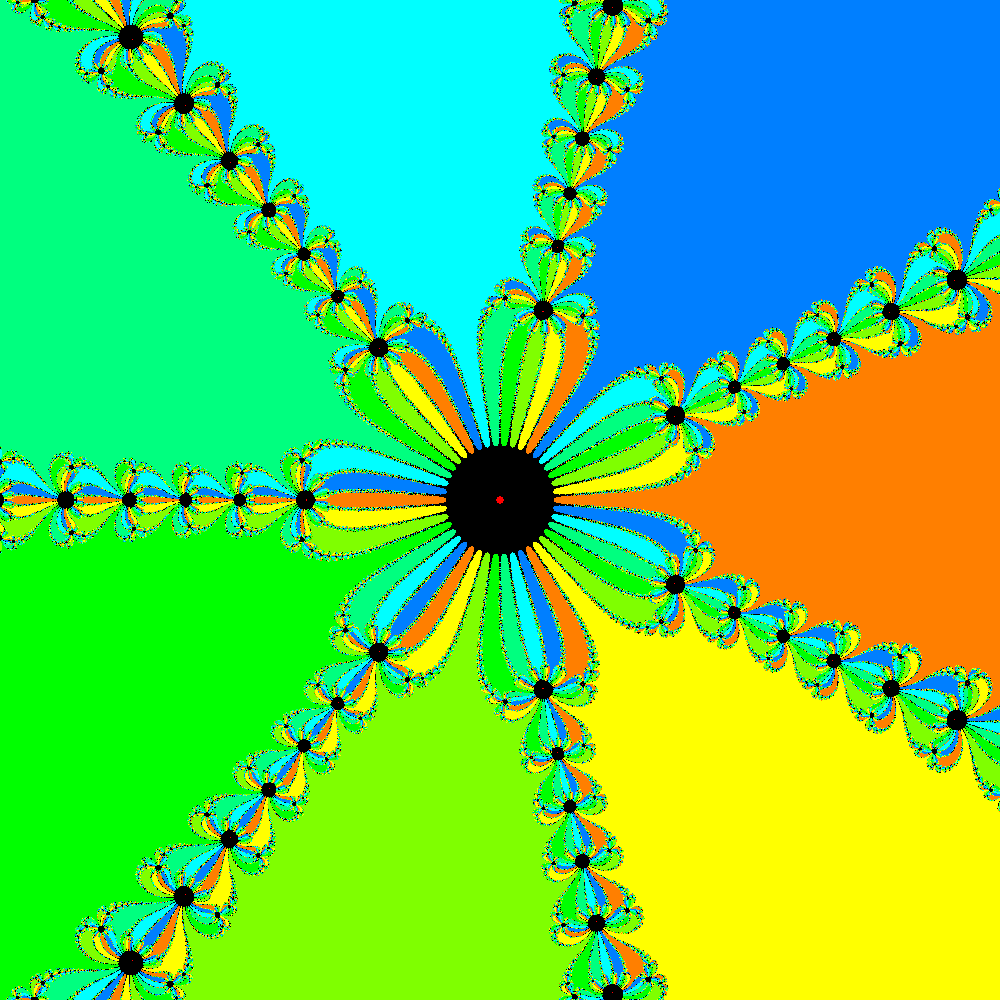
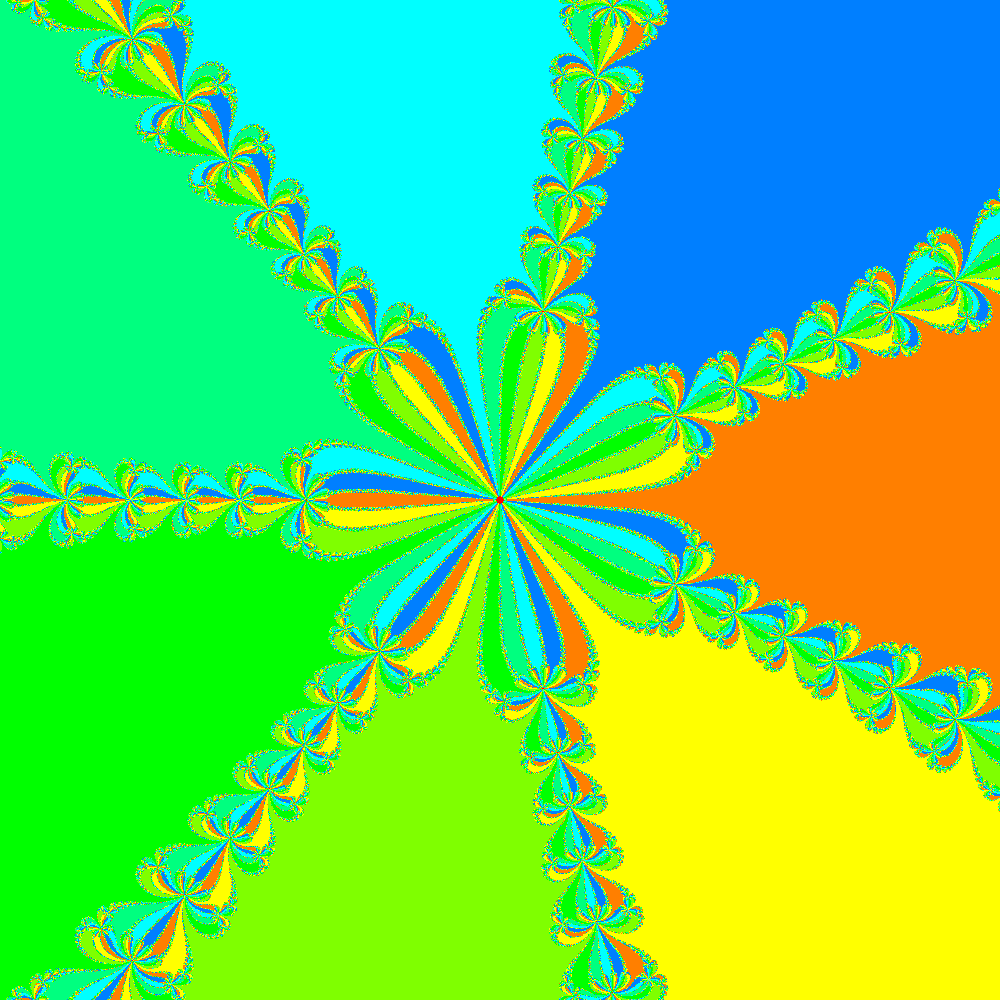
new done

diff --git a/ass3/newton.c b/ass3/newton.c
@@ -24,8 +24,6 @@ typedef struct {
 } int_padded;
 
 typedef struct {
-  const float **re_matrix;
-  const float **im_matrix;
   int degree;
   double*arr_r;
   double* arr_i;
@@ -88,8 +86,6 @@ main_thrd(
     )
 {
   const thrd_info_t *thrd_info = (thrd_info_t*) args;
-  //const float **re_matrix = thrd_info->re_matrix;
-  //const float **im_matrix=thrd_info->im_matrix;
   const int degree =thrd_info->degree;
   double* arr_r=thrd_info->arr_r;
   double*arr_i=thrd_info->arr_i;
@@ -195,20 +191,15 @@ main_thrd_check(
         mtx_unlock(mtx);
         break;
       }
+    }
 
     
-    }
-      
-
     // We do not initialize ix in this loop, but in the outer one.
     for ( ; ix < ibnd; ++ix ) {
-     
       WritePPM2(sz, root[ix],rgb_attr, fpc,iterations[ix],rgb_iter, fpi,Colours);
       free(root[ix]);
       free(iterations[ix]);
-    }
-
-     
+    } 
   }
 
   free(rgb_attr);
@@ -222,9 +213,7 @@ main_thrd_check(
 int
 main(int argc, char* argv[])
 {
-  
   //Parse command line args
-
   int nthrds;
   int sz;
   
@@ -240,49 +229,17 @@ main(int argc, char* argv[])
   }
 
  
-
   const int degree=atoi(argv[3]);
 
   //printf("%i,%i, %i\n",nthrds,sz, degree); 
   //Precalculcate roots
   double arr_r[degree];
   double arr_i[degree];
-
   PreCalcRoots(degree,arr_r,arr_i);
-
-  
-
-  //Initialize coordinate matrices
-  //  float **re_matrix=(float**) malloc(sz*sizeof(float*));
-  //float **im_matrix=(float**) malloc(sz*sizeof(float*));
-  // float *re_entries=(float*) malloc(sz*sz*sizeof(float));
-  // float *im_entries=(float*) malloc(sz*sz*sizeof(float));
-
-  
-  //Calculating gap between coordinates
-  // float gap=4./(sz-1);
-
-
-  /*
-  //Filling in coordinates
-  for ( int ix = 0, jx = 0; ix < sz; ++ix, jx += sz ){
-    re_matrix[ix]=re_entries+jx;
-    im_matrix[ix]=im_entries+jx;
-
-  }
-  for(int ix=0;ix<sz;++ix){
-    for(int jx=0;jx<sz;++jx){
-      re_matrix[ix][jx]=-2+ix*gap;
-      im_matrix[jx][ix]=2-ix*gap;
-    }
-  }
-  */
   
   //Initialize result matrices
   int **root=(int**) malloc(sz*sizeof(int*));
   int **iterations=(int**) malloc(sz*sizeof(int*));
-
-
 
   //Initializing threads
   thrd_t thrds[nthrds];
@@ -300,8 +257,6 @@ main(int argc, char* argv[])
   int_padded status[nthrds];
 
   for ( int tx = 0; tx < nthrds; ++tx ) {
-    //  thrds_info[tx].re_matrix = (const float**) re_matrix;
-    // thrds_info[tx].im_matrix= (const float**) im_matrix;
     thrds_info[tx].arr_r=arr_r;
     thrds_info[tx].arr_i=arr_i;
     thrds_info[tx].root=root;
@@ -332,7 +287,6 @@ main(int argc, char* argv[])
     thrd_info_check.nthrds = nthrds;
     thrd_info_check.mtx = &mtx;
 
-
     thrd_info_check.cnd = &cnd;
     // It is important that we have initialize status in the previous for-loop,
     // since it will be consumed by the check threads.
@@ -348,13 +302,8 @@ main(int argc, char* argv[])
   {
     int r;
     thrd_join(thrd_check, &r);
-
   }
 
-  // free(re_matrix);
-  // free(im_matrix);
-  // free(re_entries);
-  // free(im_entries);
   free(root);
   free(iterations);
 
@@ -363,11 +312,6 @@ main(int argc, char* argv[])
 
   return 0;
 }
-
-
-
-
-
 
 
 
@@ -390,7 +334,6 @@ PreCalcRoots(
 }
 
 
-
 int
 NewtonPoint(
 	    TYPE a_r,
@@ -406,7 +349,7 @@ NewtonPoint(
   ITER_T conv;
   ATT_T attr;
 
-  for ( conv = 0, attr = DEFAULT_VALUE; conv <= CAP; ++conv ) {
+  for ( conv = 0, attr = DEFAULT_VALUE; ; ++conv ) {
     TYPE sqNorm = a_r*a_r + a_i*a_i;
     
     if ( a_r > TOL_MAX || a_r < -TOL_MAX ||
@@ -554,19 +497,15 @@ NewtonPoint(
     fprintf(stderr, "unexpected degree\n");
     exit(1);
   }
-
-    //printf("%f + %fi\n", a_r, a_i);
-  
+    //printf("%f + %fi\n", a_r, a_i);  
   }
 
   // set the output
-  *i = conv;
+  *i = conv > 50 ? 50 : conv;
   *a = attr;
   
   return 0;
-
 }
-
 
 
 void WritePPM2(  int size,
@@ -579,8 +518,8 @@ void WritePPM2(  int size,
 		 int Colours[10][3]
 		 )
 {
-  size_t ja=0;
-  size_t jc=0;
+  size_t ja = 0;
+  size_t jc = 0;
   
   for ( size_t i = 0; i < size; ++i )
 	{
@@ -591,7 +530,6 @@ void WritePPM2(  int size,
 	  AllAttrColours[ja+3] = ' ';
 	  AllAttrColours[ja+4] = Colours[k][2] + 48;
 	  AllAttrColours[ja+5] = ' ';
-
 
 	  
 	  short ten = (a_conv[i] / 10) +48;
@@ -609,11 +547,7 @@ void WritePPM2(  int size,
 	  ja+=6;
 	  jc+=9;
 	}
-  
-
-  
+    
   fwrite(AllAttrColours, sizeof(char), size*3*2, fpa);
   fwrite(AllConvColours, sizeof(char), size*3*3, fpc);
- 
 }
-
